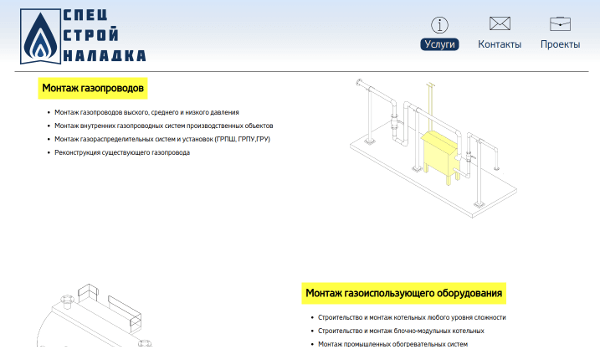
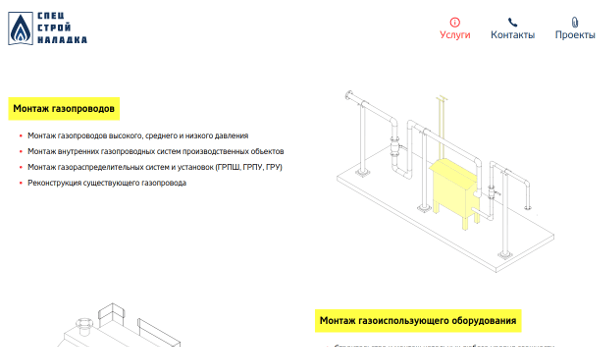
release 1.6.0

diff --git a/code/src/blocks/production-info/production-info.css b/code/src/blocks/production-info/production-info.css
@@ -1,12 +1,14 @@
-body { background: none; }
+html { margin: 0; padding: 0; }
+body { background: none; margin: 0; padding: 0; }
+p { padding: 0; margin: 0; }
 
 .production-info {
   box-sizing: border-box;
   color: var(--dark);
   width: 100%;
   text-align: center;
-  padding: 1em;
-  padding-top: 0;
+  padding: 0;
+  margin: 0;
   transition: opacity 0.5s;
   opacity: .5;
 }
@@ -17,7 +19,7 @@ body { background: none; }
 }
 
 
-.production-info__text {
+p.production-info__text {
   margin: 0;
   padding: 0;
 

diff --git a/CHANGELOG.md b/CHANGELOG.md
@@ -1,5 +1,11 @@
 landing changelog
 =================
+
+[1.6.0] - 13.05.2019
+--------------------
+Added:
+* new ccn66.ru landing
+
 [1.5.0] - 13.05.2019
 --------------------
 Added:
